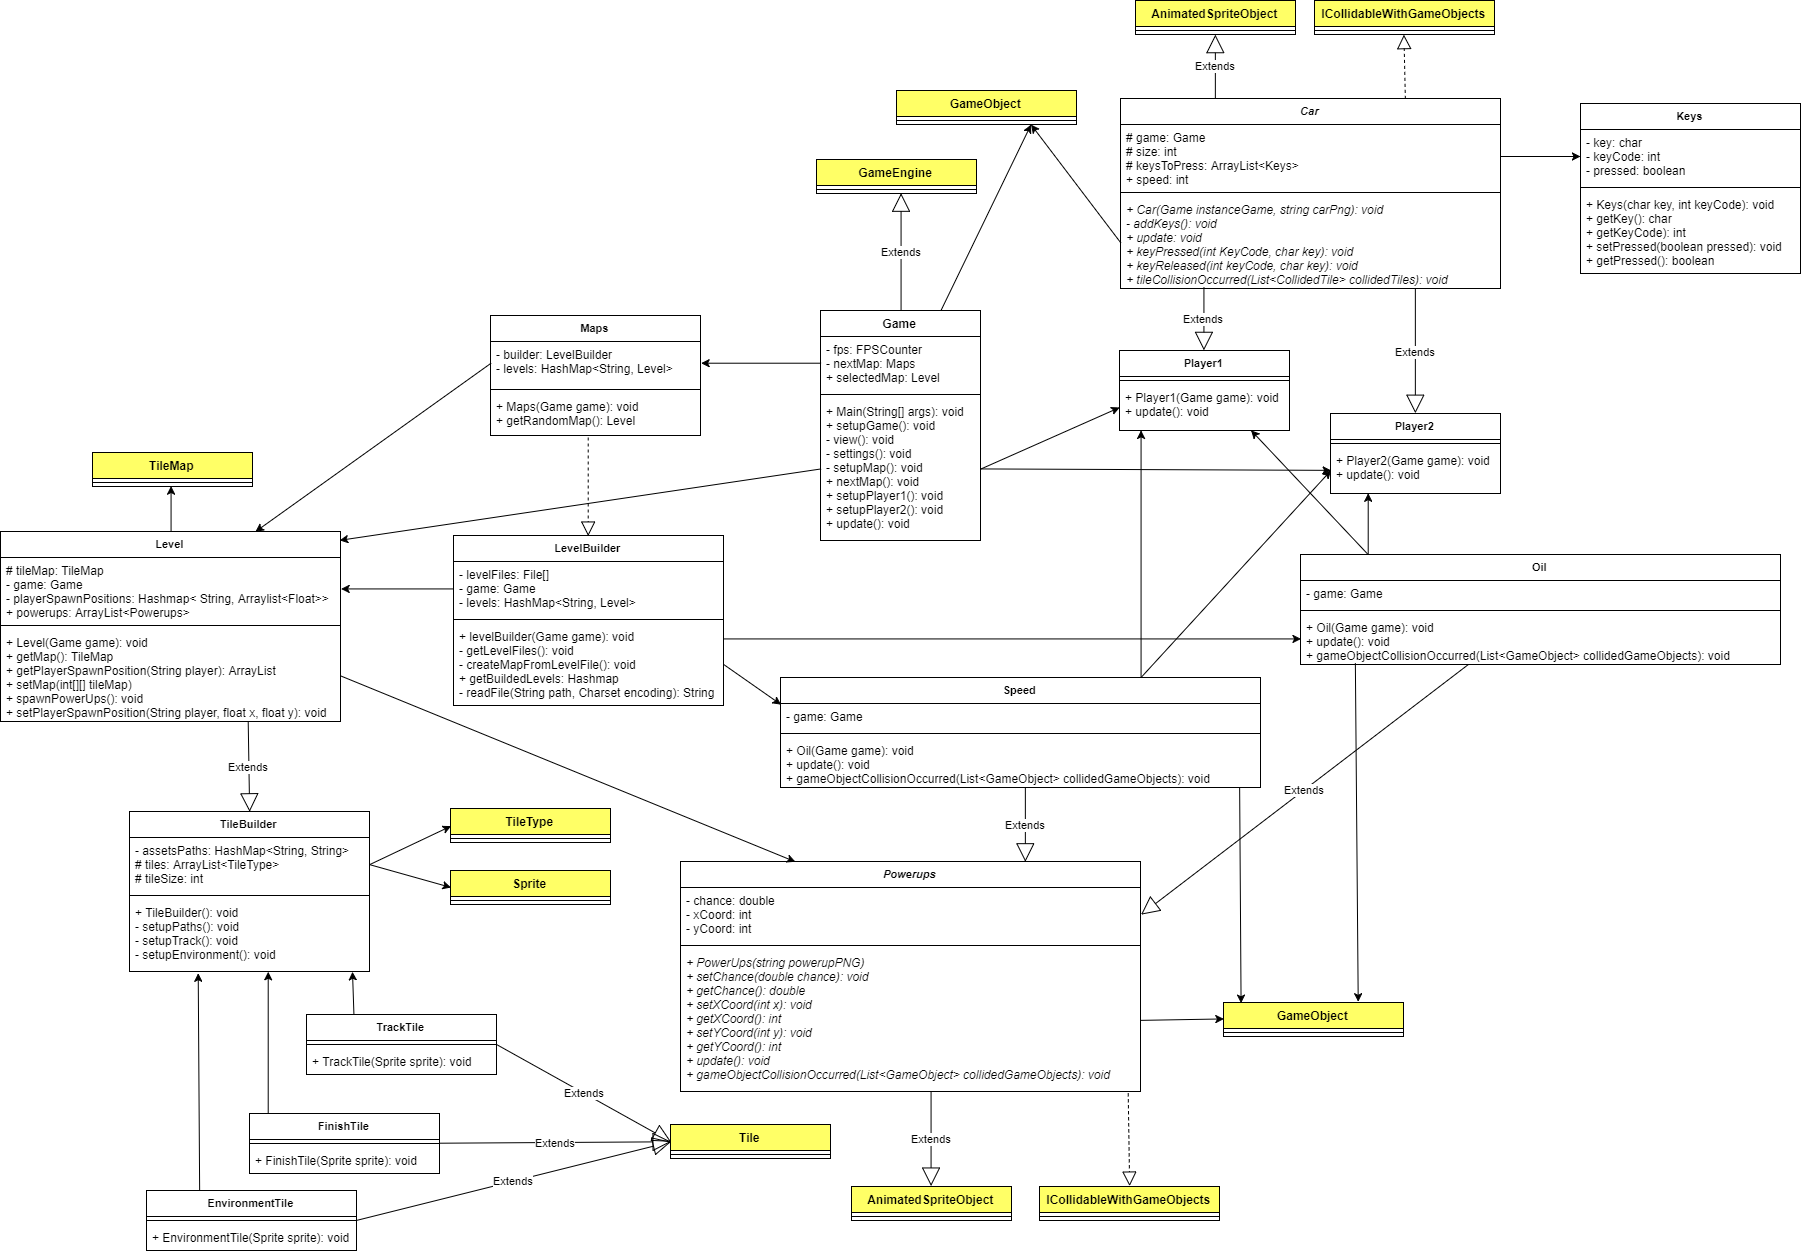
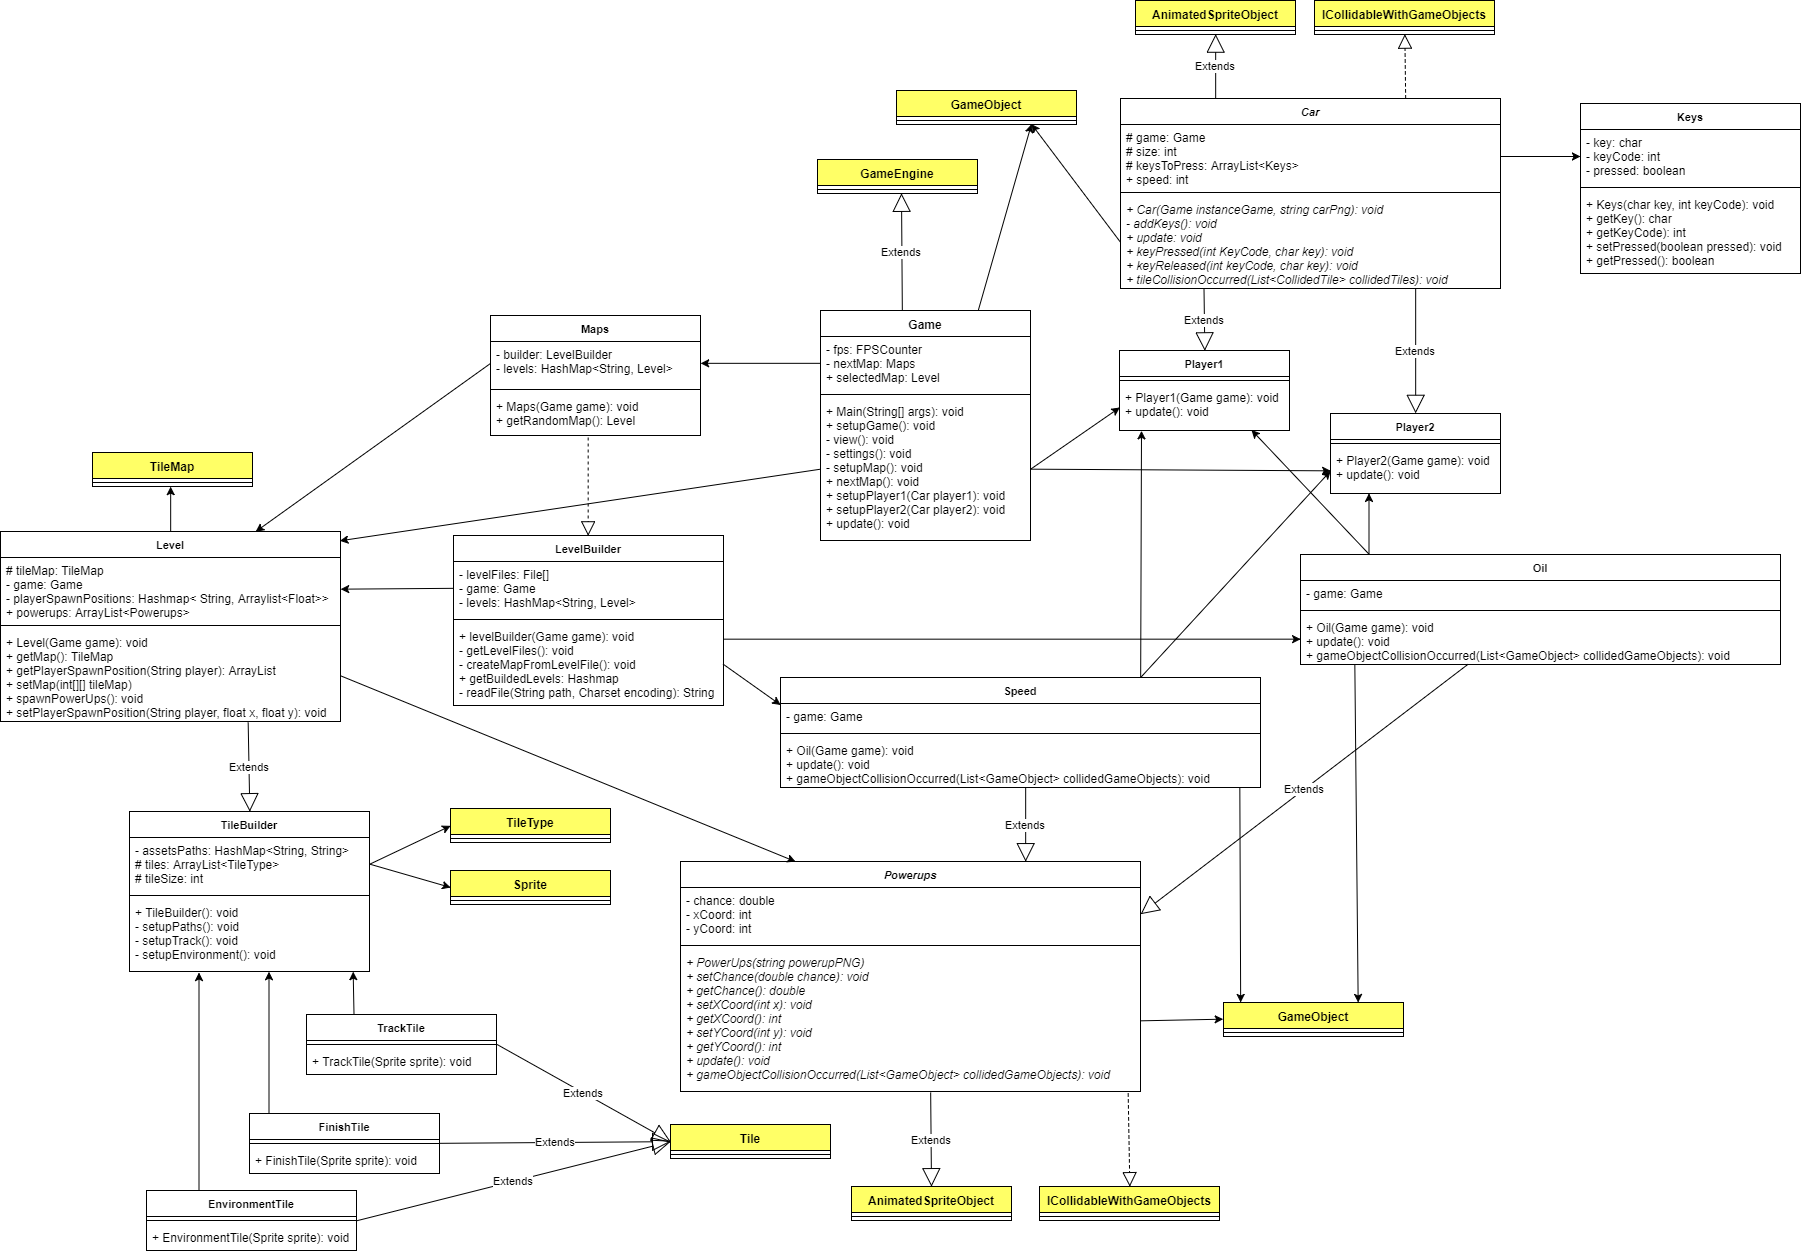
Fixed bad bug where car would multiply itself.

diff --git a/src/main/java/nl/han/ica/MasterRace/Game.java b/src/main/java/nl/han/ica/MasterRace/Game.java
@@ -4,6 +4,7 @@ import nl.han.ica.MasterRace.Map.Builder.Level;
 import nl.han.ica.MasterRace.Map.Maps;
 import nl.han.ica.MasterRace.Players.Cars.Player1;
 import nl.han.ica.MasterRace.Players.Cars.Player2;
+import nl.han.ica.MasterRace.Players.Core.Car;
 import nl.han.ica.OOPDProcessingEngineHAN.Dashboard.FPSCounter;
 import nl.han.ica.OOPDProcessingEngineHAN.Engine.GameEngine;
 import nl.han.ica.OOPDProcessingEngineHAN.View.View;
@@ -87,9 +88,9 @@ public class Game extends GameEngine {
             // Get the map
             this.tileMap = selectedMap.getMap();
             // Setup player 1
-            this.setupPlayer1();
+            this.setupPlayer1(new Player1(this));
             // Setup player 2
-            this.setupPlayer2();
+            this.setupPlayer2(new Player2(this));
             // Spawn power ups
             selectedMap.spawnPowerUps();
         }
@@ -106,25 +107,29 @@ public class Game extends GameEngine {
         // Run setup map again
         this.setupMap();
         // Setup player 1
-        this.setupPlayer1();
+        this.setupPlayer1(new Player1(this));
         // Setup player 2
-        this.setupPlayer2();
+        this.setupPlayer2(new Player2(this));
     }
 
     /**
      * Setup player 1
      */
-    public void setupPlayer1(){
+    public void setupPlayer1(Car player1){
+        // Reset speed
+        player1.speed = 2;
         // Add blue car
-        addGameObject(new Player1(this), (Float) selectedMap.getPlayerSpawnPosition("player_1").get(0), (Float) selectedMap.getPlayerSpawnPosition("player_1").get(1));
+        addGameObject(player1, (Float) selectedMap.getPlayerSpawnPosition("player_1").get(0), (Float) selectedMap.getPlayerSpawnPosition("player_1").get(1));
     }
 
     /**
      * Setup player 2
      */
-    public void setupPlayer2(){
+    public void setupPlayer2(Car player2){
+        // Reset speed
+        player2.speed = 2;
         // Add orange car
-        addGameObject(new Player2(this), (Float) selectedMap.getPlayerSpawnPosition("player_2").get(0), (Float) selectedMap.getPlayerSpawnPosition("player_2").get(1));
+        addGameObject(player2, (Float) selectedMap.getPlayerSpawnPosition("player_2").get(0), (Float) selectedMap.getPlayerSpawnPosition("player_2").get(1));
     }
 
     /**

diff --git a/src/main/java/nl/han/ica/MasterRace/Players/Core/Car.java b/src/main/java/nl/han/ica/MasterRace/Players/Core/Car.java
@@ -132,11 +132,11 @@ public abstract class Car extends AnimatedSpriteObject implements ICollidableWit
                     // Check player
                     if(this instanceof Player1){
                         // Add player 1 at start
-                        game.setupPlayer1();
+                        game.setupPlayer1(this);
                     }
                     if(this instanceof Player2){
                         // Add player 2 at start
-                        game.setupPlayer2();
+                        game.setupPlayer2(this);
                     }
                 } catch (TileNotFoundException e) {
                     // Print error

diff --git a/src/main/java/nl/han/ica/MasterRace/Map/Powerups/Oil.java b/src/main/java/nl/han/ica/MasterRace/Map/Powerups/Oil.java
@@ -52,11 +52,11 @@ public class Oil extends Powerups {
                 // Check which car
                 if(object instanceof Player1) {
                     // Add player 1 at start
-                    game.setupPlayer1();
+                    game.setupPlayer1((Car) object);
                 }
                 if(object instanceof Player2){
                     // Add player 2 at start
-                    game.setupPlayer2();
+                    game.setupPlayer2((Car) object);
                 }
             }
         }
